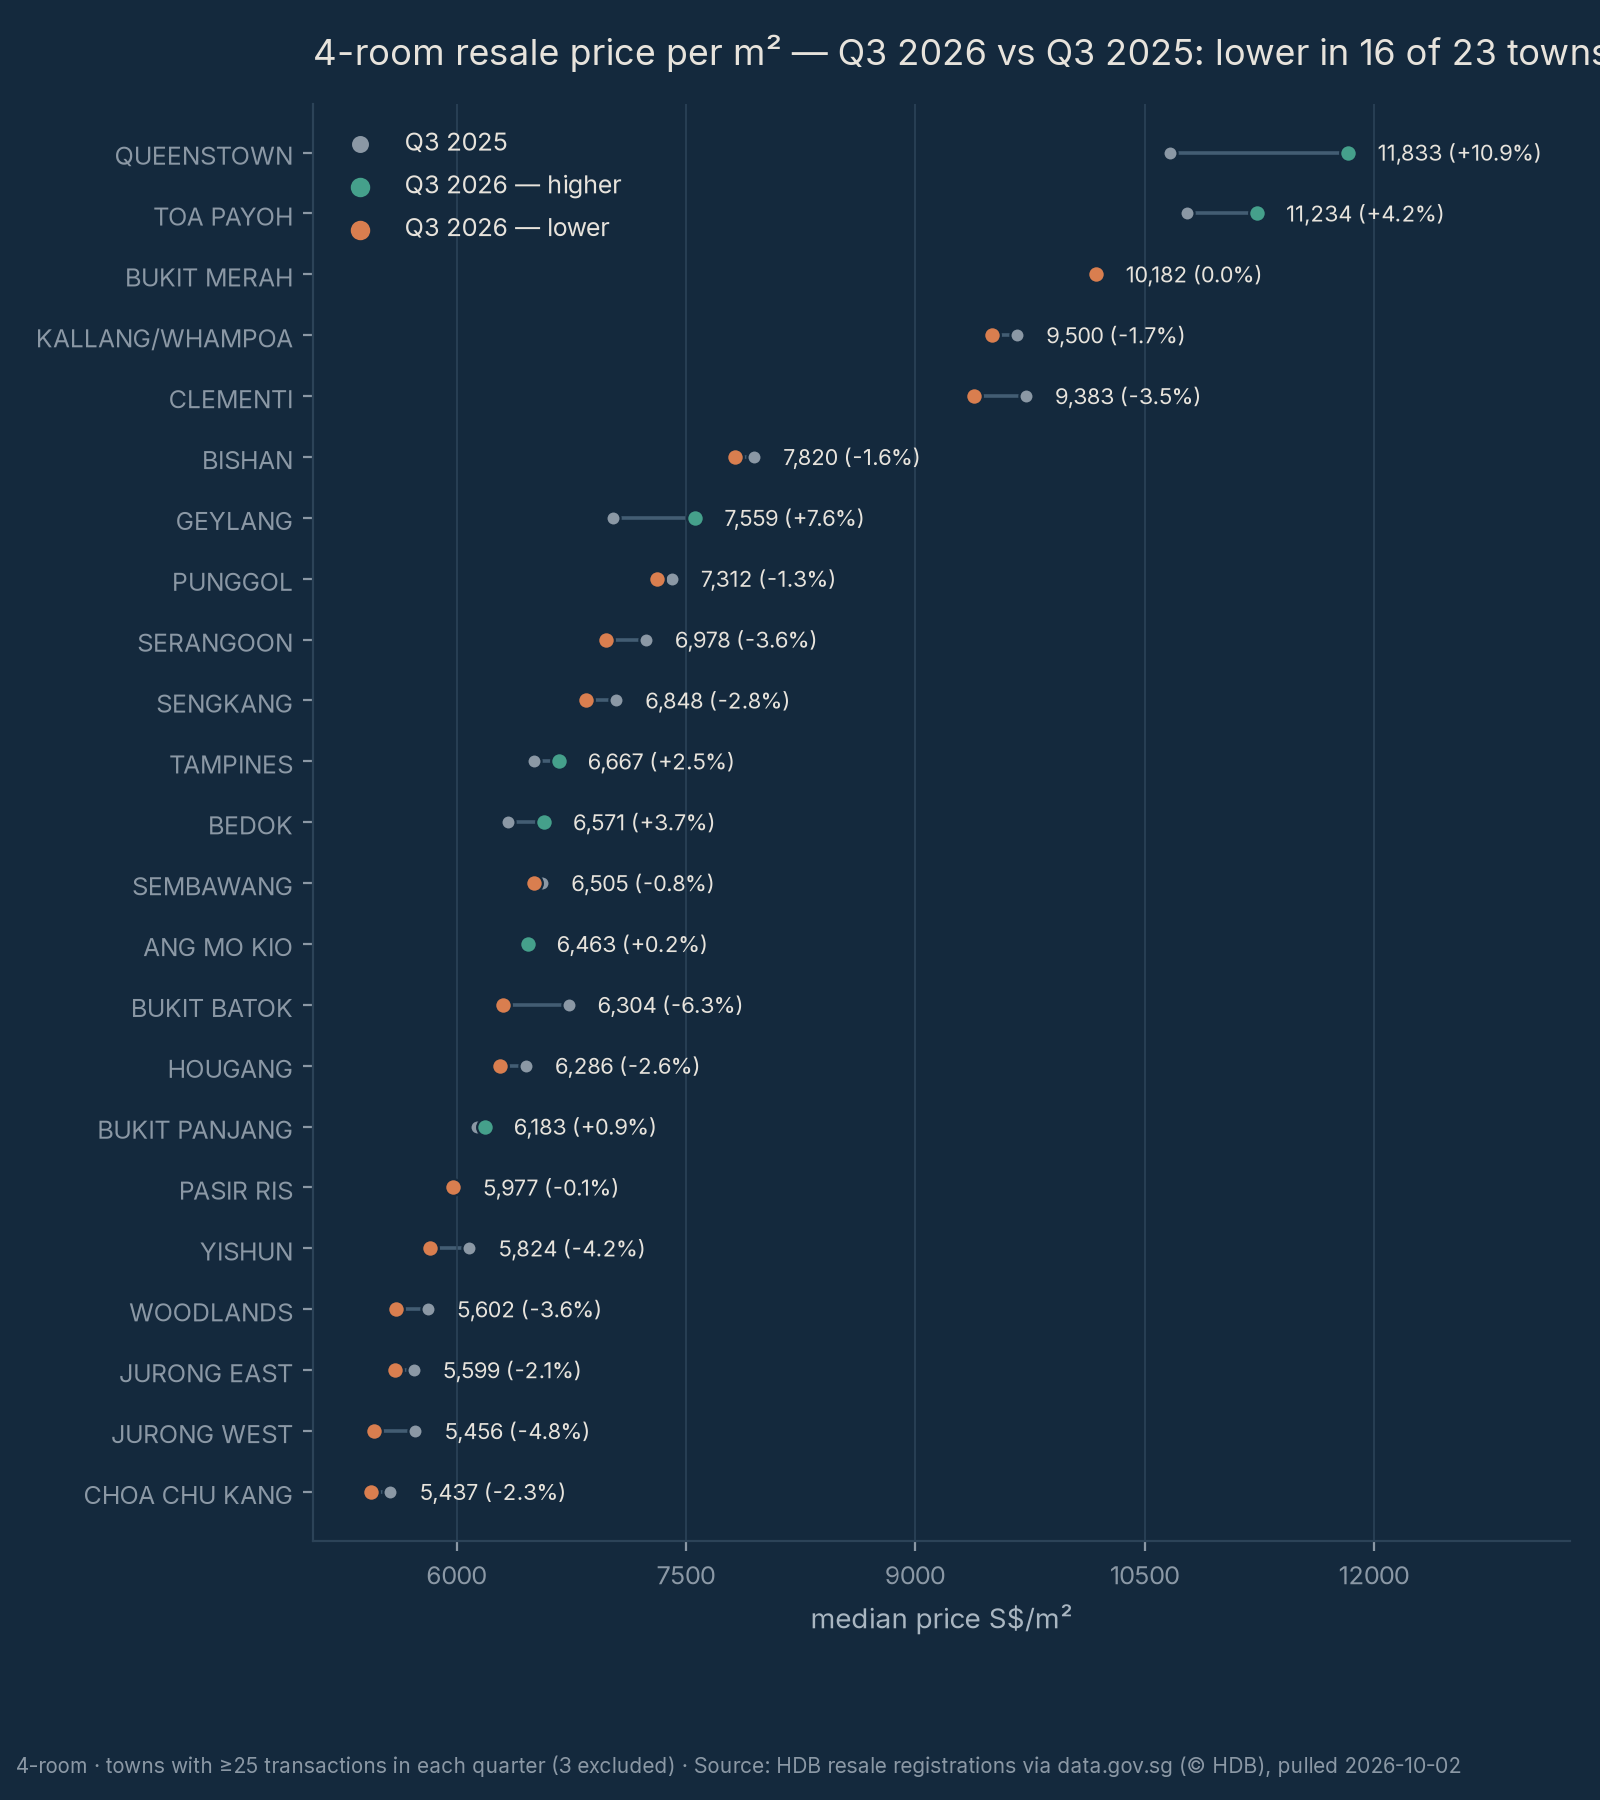
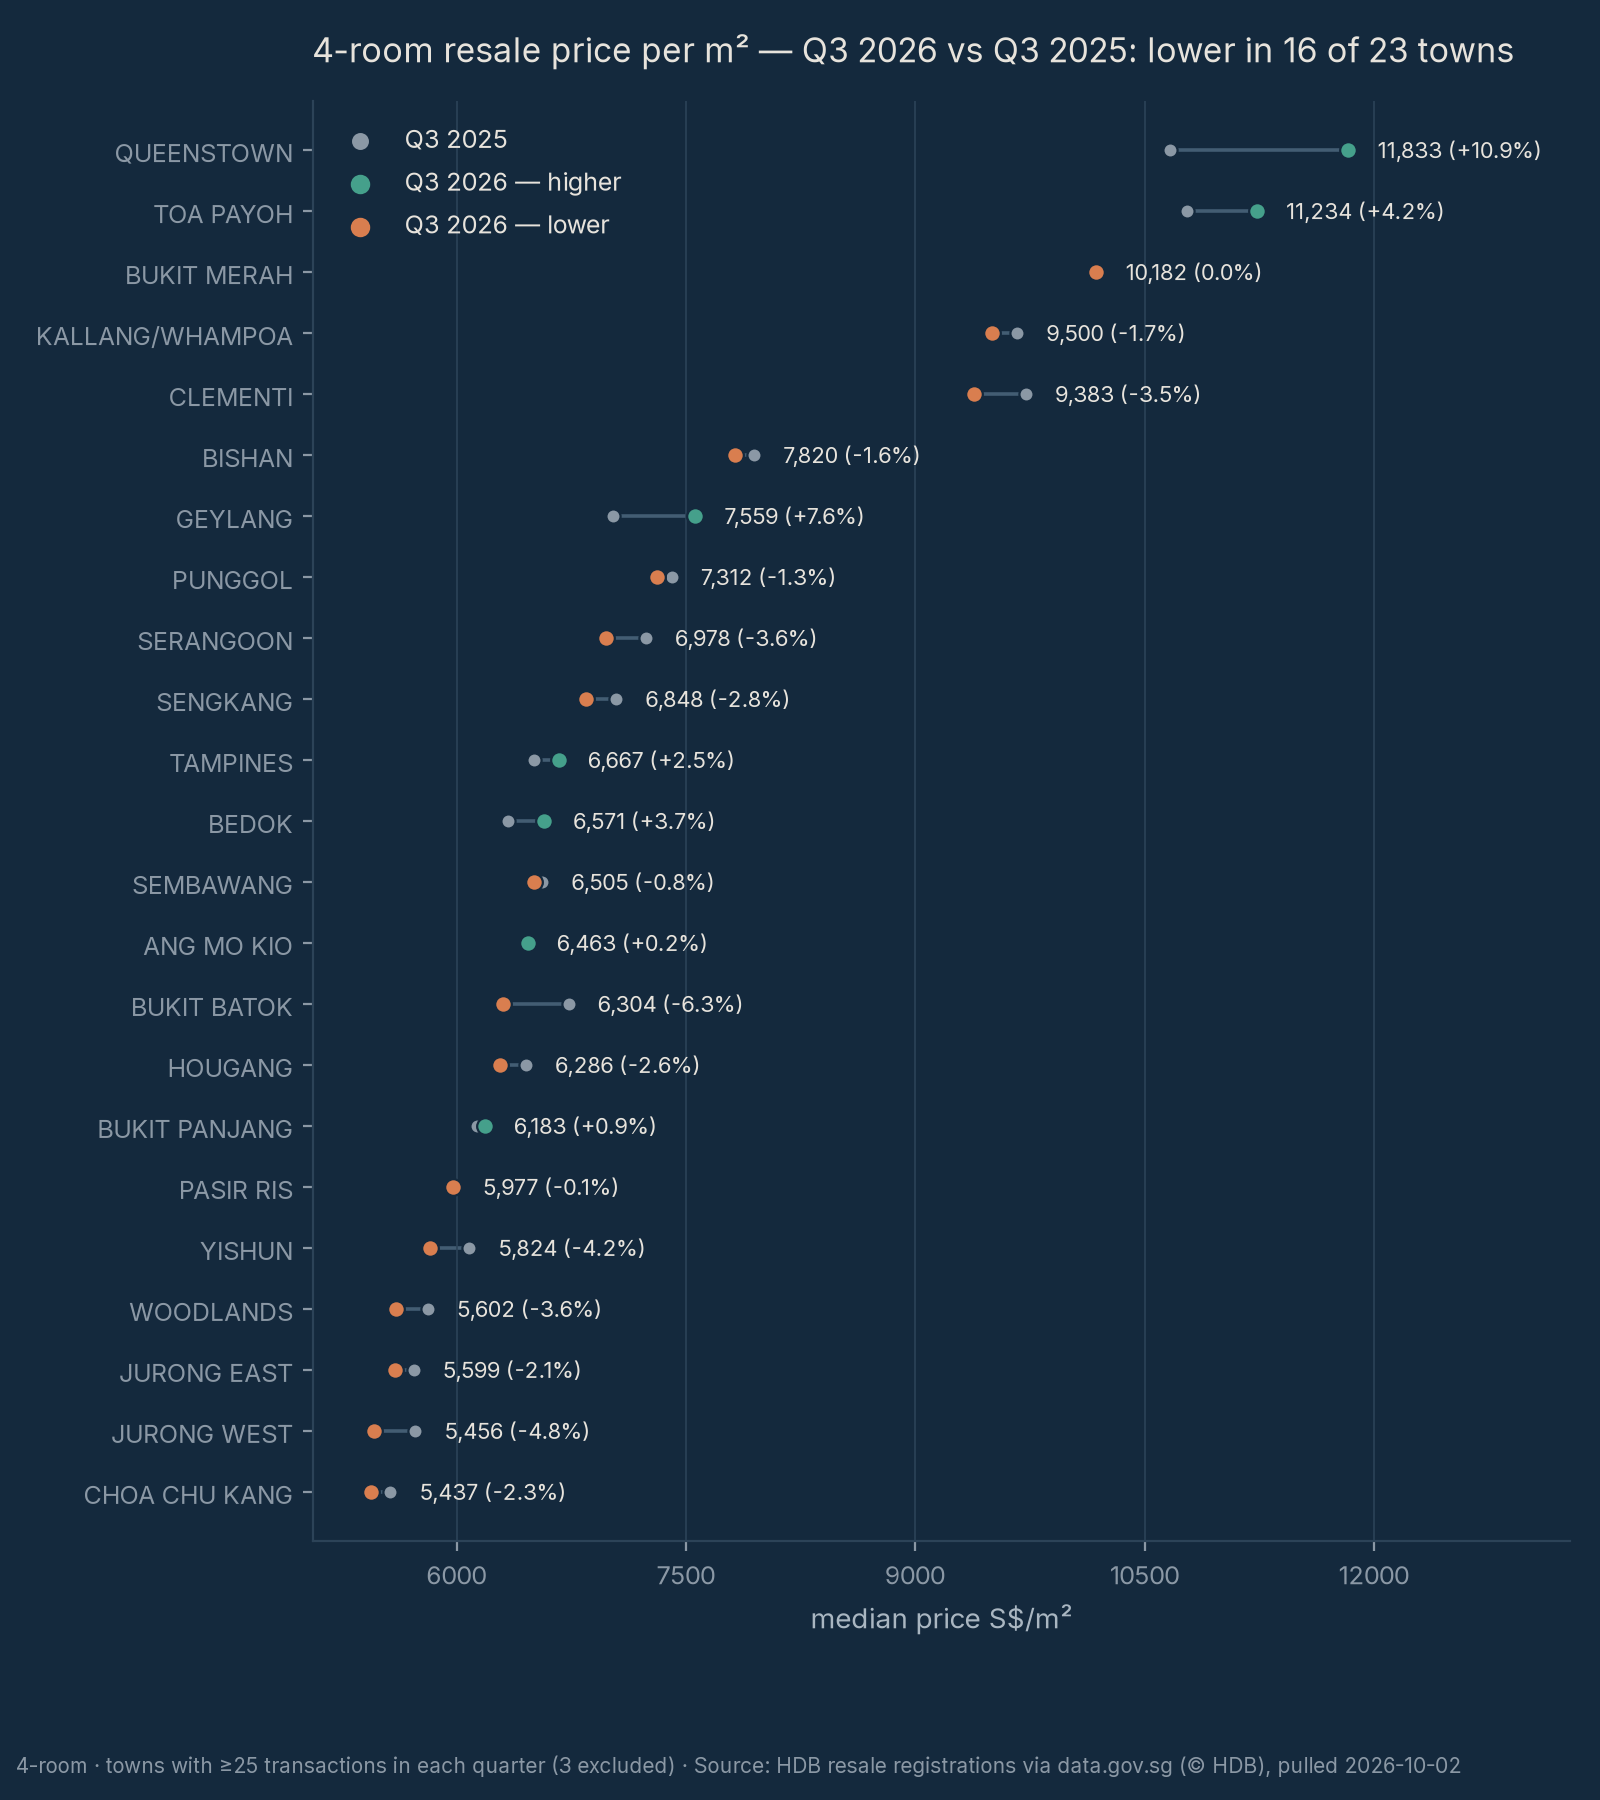
Review fixes: no totals row + clearer KPI label; f1 title no longer clips

diff --git a/src/figures.py b/src/figures.py
@@ -95,7 +95,7 @@ def fig1_dumbbell(con):
     ax.xaxis.grid(True)
     ax.yaxis.grid(False)
     ax.set_xlabel("median price S$/m²")
-    ax.set_title(f"4-room resale price per m² — Q3 2026 vs Q3 2025: lower in {n_down} of {len(rows)} towns")
+    ax.set_title(f"4-room resale price per m² — Q3 2026 vs Q3 2025: lower in {n_down} of {len(rows)} towns", fontsize=12)
     ax.scatter([], [], s=26, color=T["muted"], label="Q3 2025")
     ax.scatter([], [], s=36, color=T["teal"], label="Q3 2026 — higher")
     ax.scatter([], [], s=36, color=T["burnt"], label="Q3 2026 — lower")

diff --git a/bi/README.md b/bi/README.md
@@ -1,11 +1,11 @@
 # Power BI page — 4-room resale, Q3 2026 vs Q3 2025
 
-Screenshot: [`reports/figures/bi_page.png`](../reports/figures/bi_page.png) — the page built in Power BI Desktop (free) from `outputs/town_4room_yoy.csv` (26 towns, one row per town). A finding strip — three KPI cards: **26 towns** in the comparison · **3,270 resales** (Q3 2026 vs Q3 2025, +7%) · **−1.64%** median town change — sits above four visuals:
+Screenshot: [`reports/figures/bi_page.png`](../reports/figures/bi_page.png) — the page built in Power BI Desktop (free) from `outputs/town_4room_yoy.csv` (26 towns, one row per town). A finding strip — three KPI cards: **26 towns** in the comparison · **3,270 resales** (Q3 2026 vs Q3 2025, +7%) · **−1.64%** median of the 26 towns' changes (distinct from the national headline — it's the median across towns, not a national figure) — sits above four visuals:
 
 1. **Clustered bar** — median price/m² by town, Q3 2025 vs Q3 2026 (`med_ppsm_2025q3` / `med_ppsm_2026q3`)
 2. **Clustered column** — shift-share components by town (`rate_effect`, `mix_effect`, `interaction`)
 3. **Scatter** — transactions vs price change (`n_t1` × `med_pct_change`), one dot per town
-4. **Table** — `town`, `n_t0`, `n_t1`, `med_ppsm_2026q3`, `med_pct_change`, `rate_effect`, `mix_effect`
+4. **Table** — `town`, `n_t0`, `n_t1`, `med_ppsm_2026q3`, `med_pct_change`, `rate_effect`, `mix_effect` — town-level detail with **no totals row**: medians are not additive (a sum of town medians is meaningless), and the additive totals live in the memo and the charts.
 
 Both theme renders ship: [`bi_page.png`](../reports/figures/bi_page.png) (light) and [`bi_page-dark.png`](../reports/figures/bi_page-dark.png) (dark) — the repo README swaps them with `<picture>`, so dark-theme visitors see the ink version.
 
